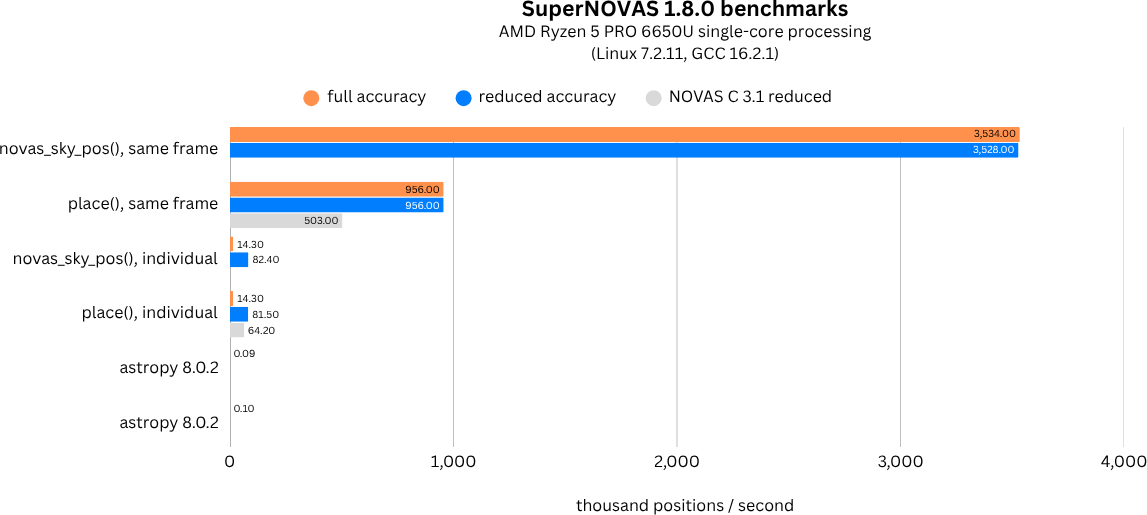
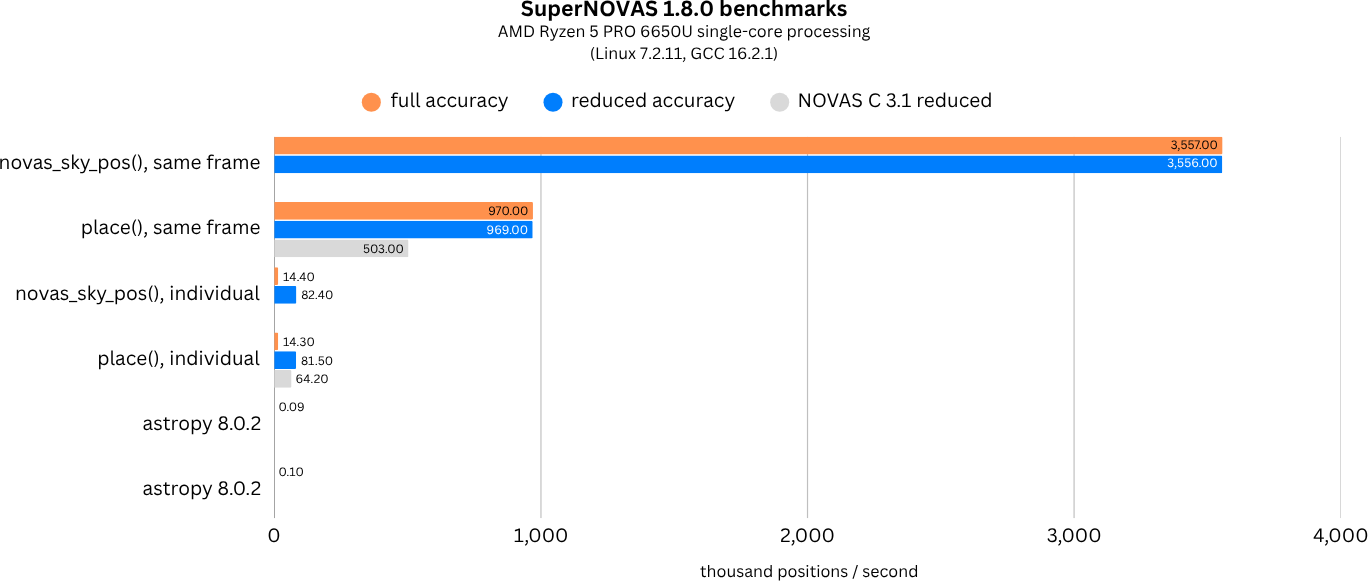
README edits and updated benchmark plot

diff --git a/README.md b/README.md
@@ -1137,14 +1137,14 @@ aberration and gravitational deflection corrections from the observer's point of
 
  | Description                         | accuracy  | positions / sec |
  |:----------------------------------- |:---------:| ---------------:|
- | `novas_sky_pos()`, same frame       | reduced   |         3533523 |
- |                                     |   full    |         3527956 |
- | `place()`, same time, same observer | reduced   |          955815 |
- |                                     |   full    |          955694 |
+ | `novas_sky_pos()`, same frame       | reduced   |         3556775 |
+ |                                     |   full    |         3555723 |
+ | `place()`, same time, same observer | reduced   |          970271 |
+ |                                     |   full    |          969258 |
  | `novas_sky_pos()`, individual       | reduced   |           82363 |
- |                                     |   full    |           14311 |
+ |                                     |   full    |           14398 |
  | `place()`, individual               | reduced   |           81545 |
- |                                     |   full    |           14305 |
+ |                                     |   full    |           14344 |
 
 For reference, we also provide the reduced accuracy benchmarks from NOVAS C 3.1.
 
@@ -1177,9 +1177,9 @@ reduced accuracy is sufficient.
 
 The above benchmarks are all for single-threaded performance. Since __SuperNOVAS__ is generally thread-safe, you can 
 expect that performance shall scale with the number of concurrent CPUs used. So, on a 16-core PC, with similar single 
-core performance, you could calculate up to 70 million precise positions per second, if you wanted to. To put that into 
+core performance, you could calculate 56 million precise positions per second, if you wanted to. To put that into 
 perspective, you could calculate precise apparent positions for the entire Gaia dataset (1.7 billion stars) in just 30 
-seconds.
+seconds. (It would take 2 weeks with __astropy__ if multiprocessing, or a 7 months in a single process).
 
 
 
